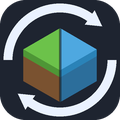
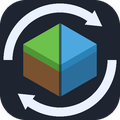
Centre the block on the ring, not on its own bounding box
The block spans y -92..+122, so its middle sits at +15 rather than at 0
- drawn as authored it hung about 22px low inside a ring centred on the
origin, closer to the bottom arrow than the top. This is what the old
CONTENT_DY of -10 was reaching for, but that shifted the ring too, which
is how the top arrowhead came to be clipped. Lifting only the block
fixes both: the cube lands on the ring's centre and the plate margins
stay even on all four sides.

The seam moves with it. It is the block's front edge, and left on the
unshifted grid it drew a dark line hanging past the cube at both ends.
The arrowheads deliberately do not move - they belong to the ring.

Changed region(s): [[0.175, 0.175, 0.825, 0.65], [0.175, 0.625, 0.825, 0.85]]

diff --git a/docs/branding/make_icon.py b/docs/branding/make_icon.py
@@ -23,6 +23,9 @@ CONTENT_SCALE = 0.72   # filled out: 0.60 left too much dead plate at 32px
 # centred on the plate; nothing needed nudging.
 CONTENT_DY = 0.0
 
+# Half the block's own vertical span, negated: -(-92 + 122)/2.
+BLOCK_DY = -15.0
+
 PLATE = (0x1E, 0x24, 0x30)
 SEAM = (0x14, 0x16, 0x1A)
 WHITE = (0xEA, 0xF2, 0xFF)
@@ -47,6 +50,17 @@ def render(size):
 
     def poly(pts):
         return [P(x, y) for x, y in pts]
+
+    def bpoly(pts):
+        """Cube points, lifted so the cube's own centre lands on the ring's.
+
+        The block spans y -92..+122, which puts its middle at +15 rather than
+        at 0 - so drawn as authored it hangs low inside a ring that is centred
+        on the origin, and sits visibly nearer the bottom arrow than the top.
+        The old CONTENT_DY of -10 was compensating for this, but by shifting
+        the ring as well, which is how the top arrowhead ended up clipped.
+        """
+        return [P(x, y + BLOCK_DY) for x, y in pts]
 
     img = Image.new("RGBA", (w, w), (0, 0, 0, 0))
     d = ImageDraw.Draw(img)
@@ -76,17 +90,19 @@ def render(size):
     d.polygon(poly([(-122.1, 97.6), (-100.4, 143.4), (-71.7, 102.4)]), fill=WHITE)
 
     # --- split block ---
-    d.polygon(poly([(0, -92), (-106, -31), (0, 30)]), fill=GREEN_TOP)
-    d.polygon(poly([(0, -92), (106, -31), (0, 30)]), fill=BLUE_TOP)
-    d.polygon(poly([(-106, -31), (0, 30), (0, 122), (-106, 61)]), fill=BROWN_SIDE)
-    d.polygon(poly([(106, -31), (0, 30), (0, 122), (106, 61)]), fill=BLUE_SIDE)
-    d.polygon(poly([(-106, -31), (0, 30), (0, 50), (-106, -11)]), fill=GREEN_LIP)
-    d.polygon(poly([(106, -31), (0, 30), (0, 50), (106, -11)]), fill=BLUE_LIP)
+    d.polygon(bpoly([(0, -92), (-106, -31), (0, 30)]), fill=GREEN_TOP)
+    d.polygon(bpoly([(0, -92), (106, -31), (0, 30)]), fill=BLUE_TOP)
+    d.polygon(bpoly([(-106, -31), (0, 30), (0, 122), (-106, 61)]), fill=BROWN_SIDE)
+    d.polygon(bpoly([(106, -31), (0, 30), (0, 122), (106, 61)]), fill=BLUE_SIDE)
+    d.polygon(bpoly([(-106, -31), (0, 30), (0, 50), (-106, -11)]), fill=GREEN_LIP)
+    d.polygon(bpoly([(106, -31), (0, 30), (0, 50), (106, -11)]), fill=BLUE_LIP)
 
     # --- seam, so the split reads as deliberate ---
     seam_layer = Image.new("RGBA", (w, w), (0, 0, 0, 0))
     ImageDraw.Draw(seam_layer).line(
-        [P(0, -92), P(0, 122)], fill=SEAM + (140,),
+        # Same lift as the faces - it is the block's front edge, and leaving it
+        # on the unshifted grid left a dark line hanging past the cube.
+        [P(0, -92 + BLOCK_DY), P(0, 122 + BLOCK_DY)], fill=SEAM + (140,),
         width=max(1, int(round(7 * CONTENT_SCALE * k))))
     img = Image.alpha_composite(img, seam_layer)
 
